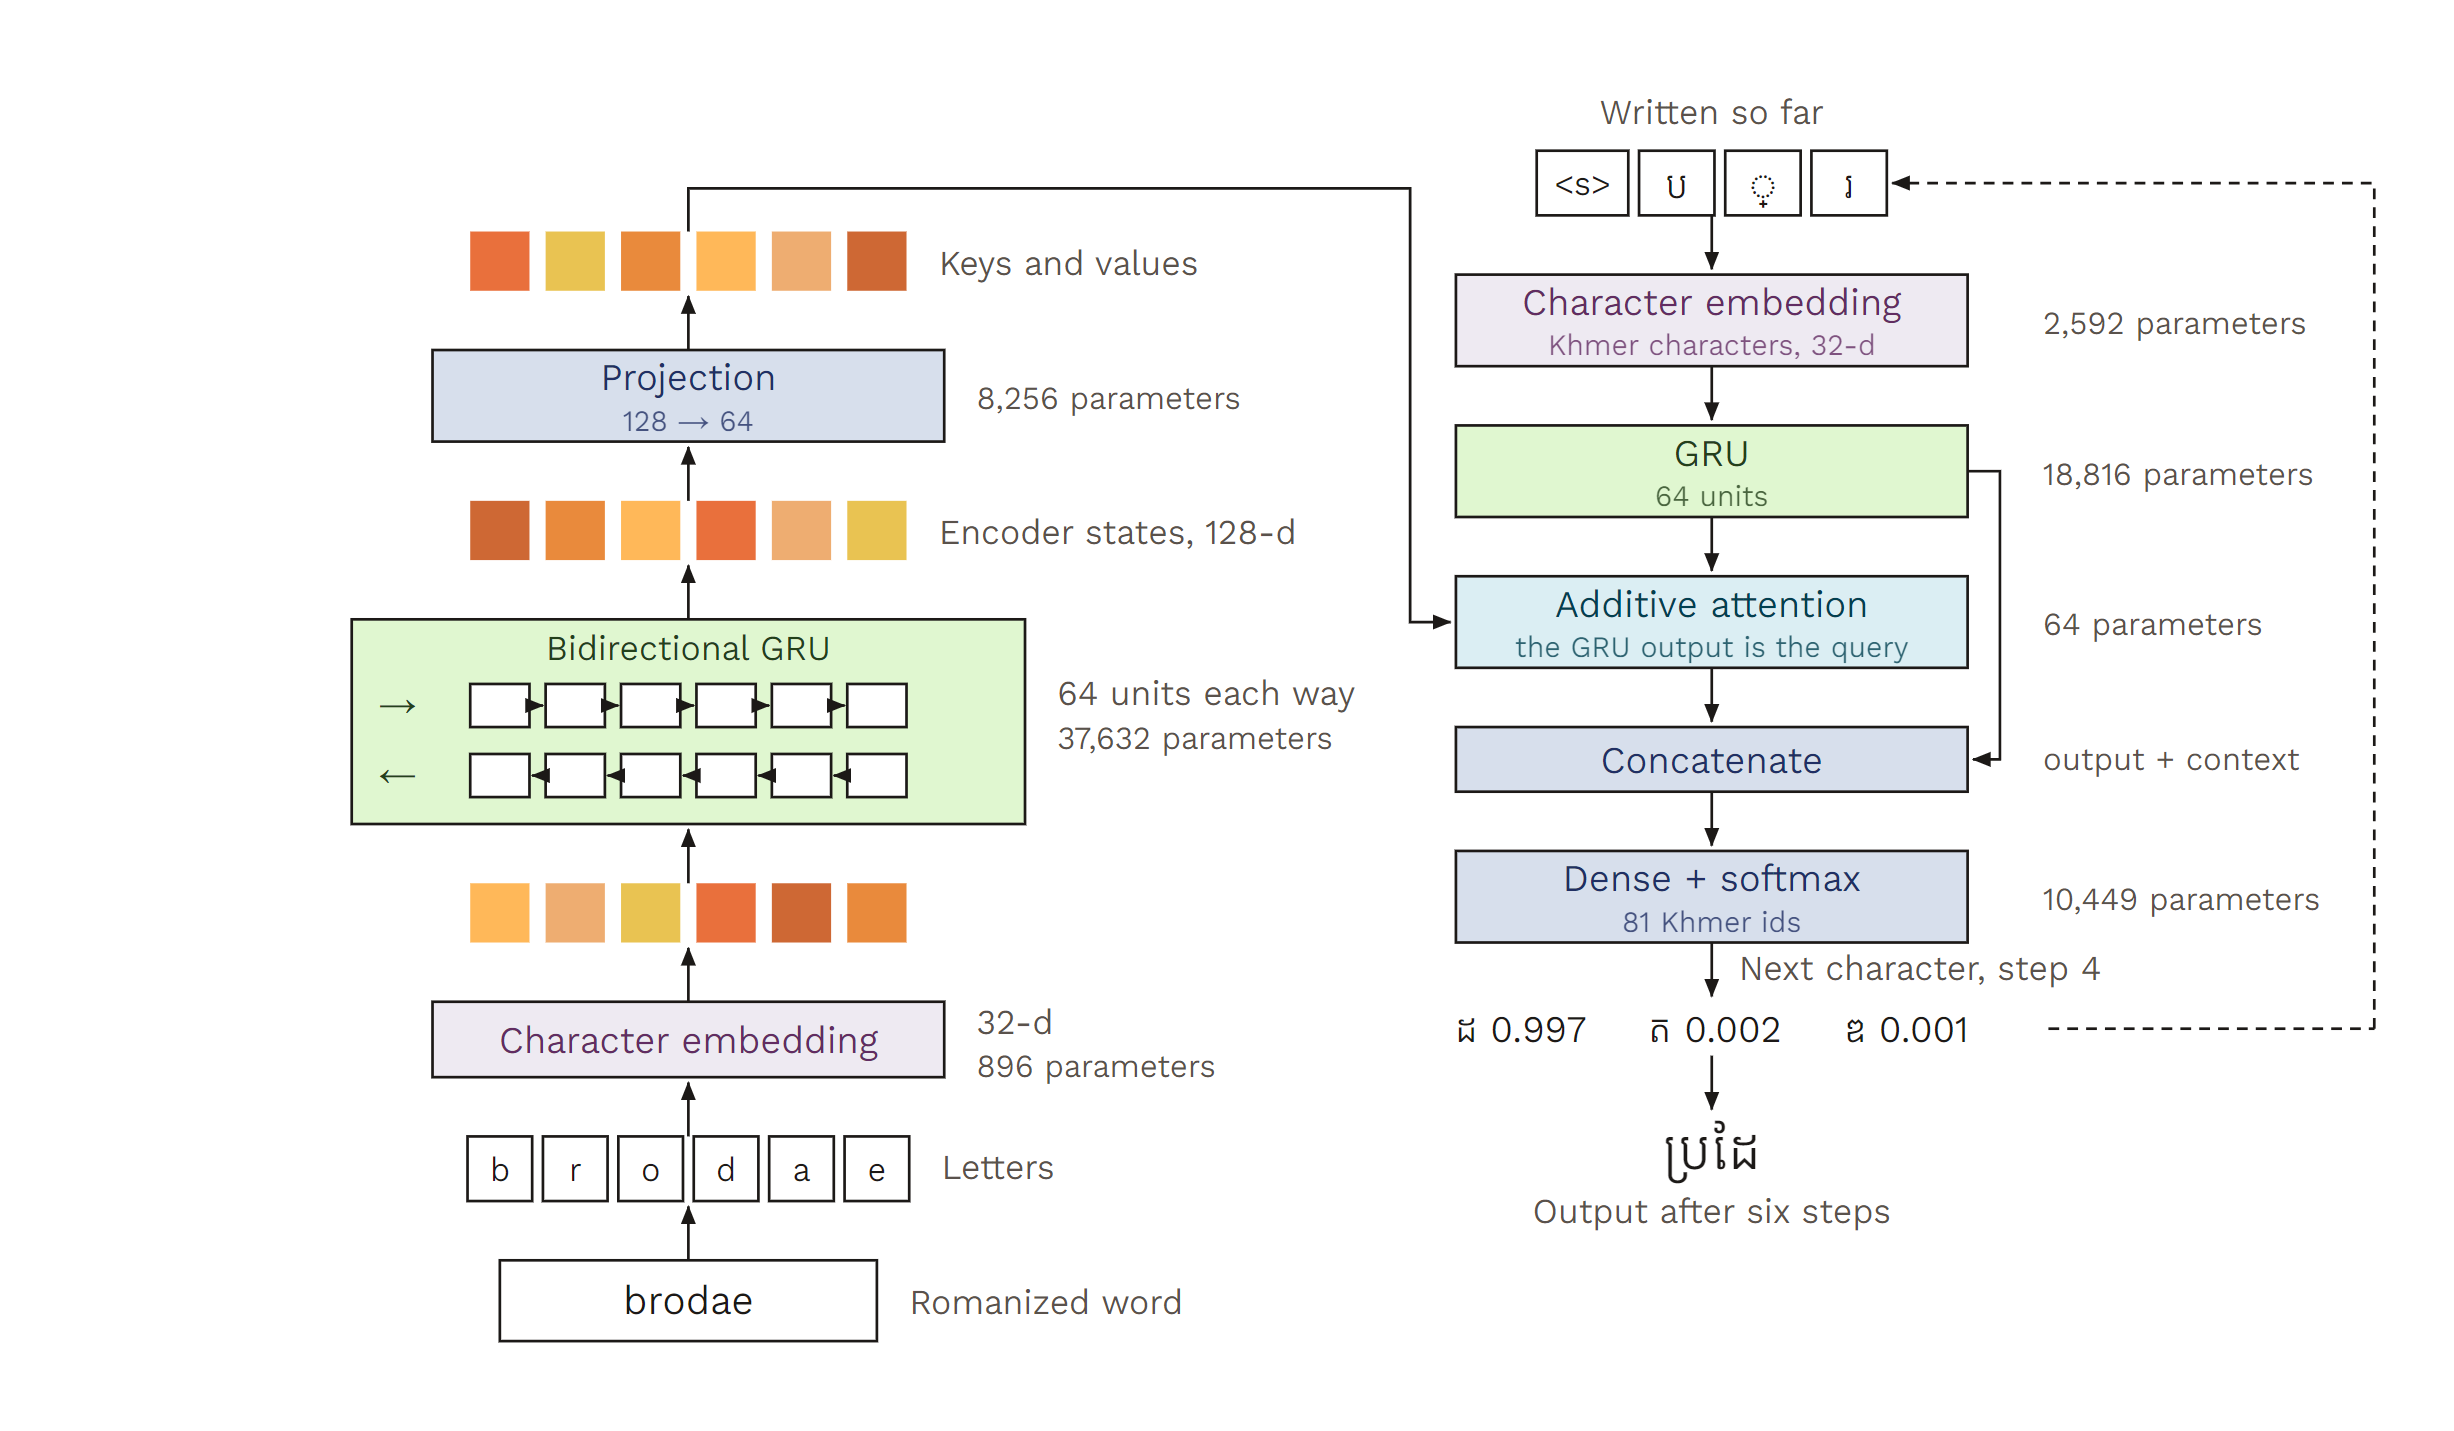
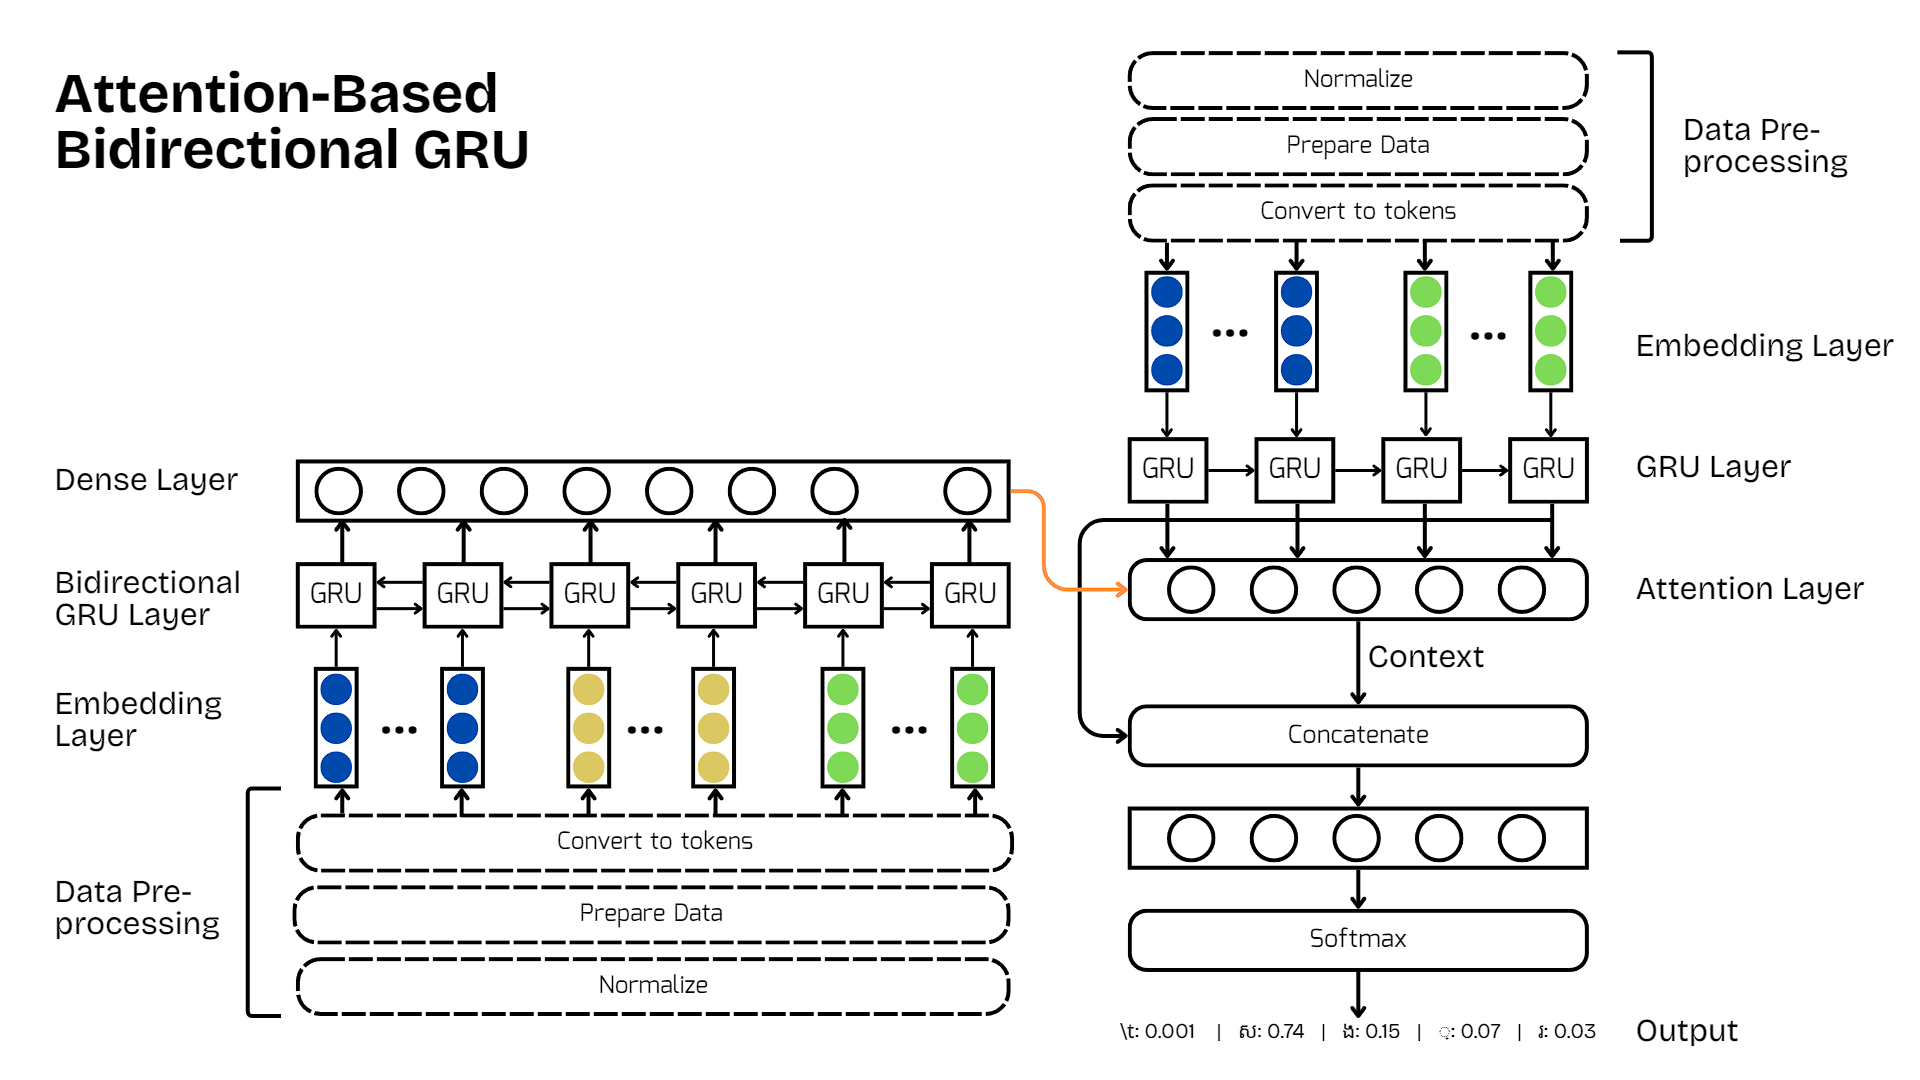
Restore the original assets/architecture.png; the new figure is assets/akaraalpha_architecture.png
Claude-Session: https://claude.ai/code/session_01S13TLVjotbxjJpfWUhgjEc

diff --git a/README.md b/README.md
@@ -43,7 +43,7 @@ There are 77 unique Khmer characters and 26 unique English characters in the dat
 The model is based on an Attention-Based Bidirectional GRU architecture designed for sequence-to-sequence transliteration. It follows an encoder–decoder structure, where the encoder processes the input Latin script (English) sequence, and the decoder generates the corresponding Khmer script sequence character by character.
 
 <p align="center">
-  <img src="https://raw.githubusercontent.com/netra-ai-lab/Romanized-Khmer-to-Khmer-Transliteration/main/assets/architecture.png" alt="AkaraAlpha turning brodae into Khmer: a bidirectional GRU encoder reading upwards and a GRU decoder with additive attention reading downwards">
+  <img src="https://raw.githubusercontent.com/netra-ai-lab/Romanized-Khmer-to-Khmer-Transliteration/main/assets/akaraalpha_architecture.png" alt="AkaraAlpha turning brodae into Khmer: a bidirectional GRU encoder reading upwards and a GRU decoder with additive attention reading downwards">
 </p>
 
 <p><em><strong>Figure 2 | The proposed Attention-based Bidirectional Gated Recurrent Unit architecture, turning brodae into ប្រដែ.</strong> The encoder reads upwards: each letter becomes a 32-dimensional embedding, a bidirectional GRU reads the letters in both directions, and a projection brings each state to 64 dimensions, the keys and values for attention. The decoder reads downwards. At step 4, with ប ្ រ written, its GRU output is the query for additive attention, and a softmax layer over 81 ids gives ដ with probability 0.997. The chosen character joins the input and the loop repeats until the end marker.</em></p>
